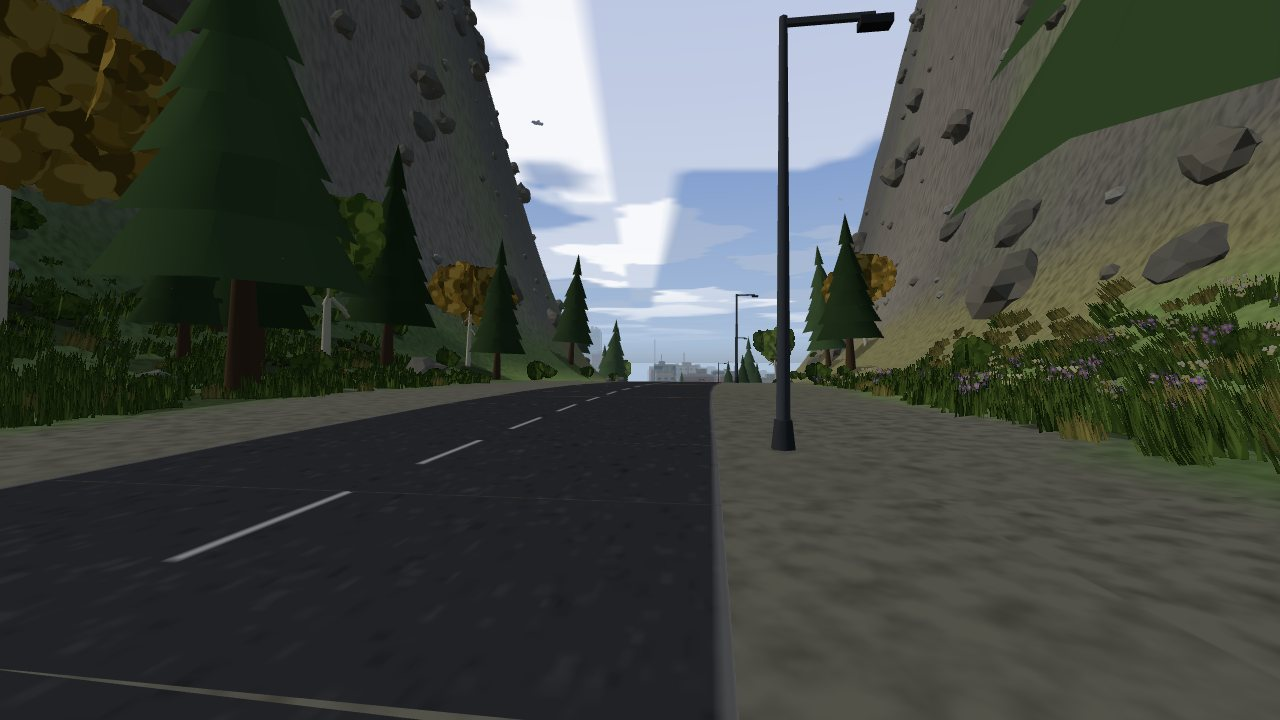
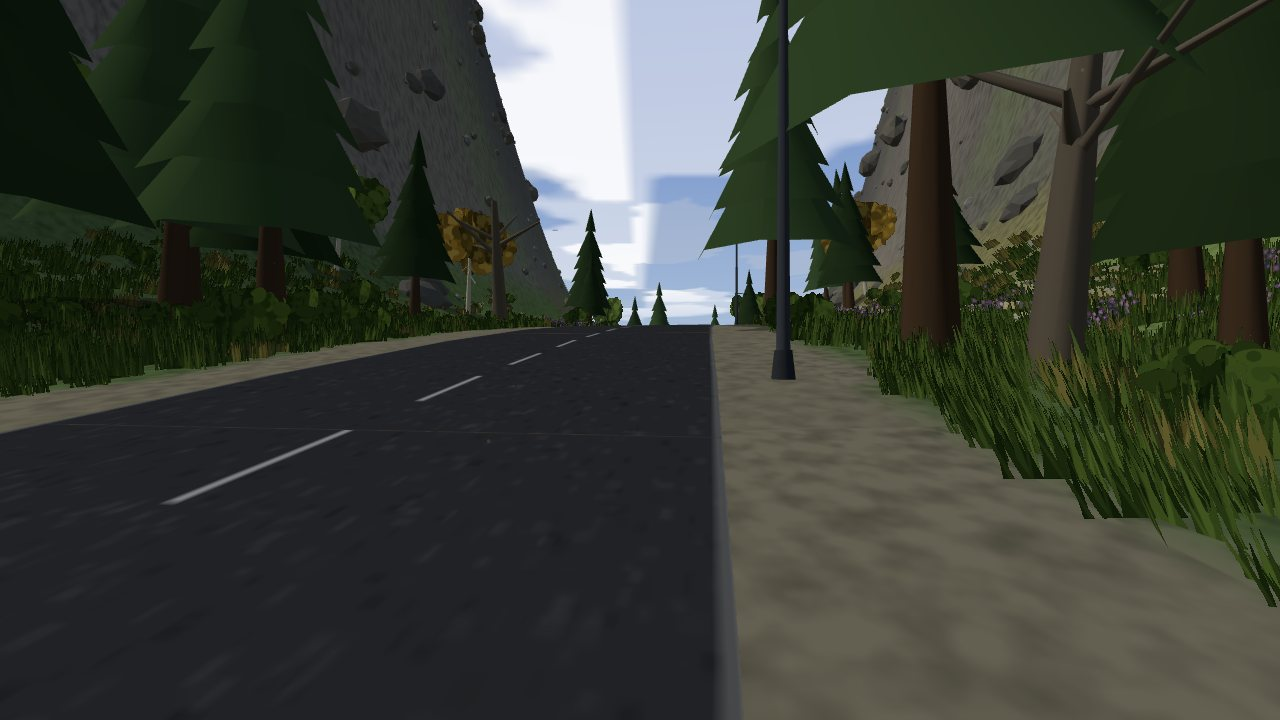
Keep the road off the valley floor and out of the verge
The highway was carving a wide grey shelf across the meadow beside the
spawn: its profile ignored the ground it crossed, and the zone that
suppresses vegetation reached four metres past the graded shelf on each
side, so the scar was 22 m wide against an 8.7 m carriageway.

- The profile now follows the natural ground across the valley floor and
  only starts cutting where it climbs the rim, which is where the cut is
  supposed to become the gorge. The spawn sits back at its original
  height, and the road passes 24 m away instead of 15.
- The vegetation-free zone is the flat shelf only, and it is coloured as
  a gravel verge rather than tarmac, so grass and trees come right up to
  the road edge.
- The road ribbon offsets each cross-section along the averaged tangent
  at its own path point; per-segment normals were leaving a wedge of bare
  ground showing on the outside of every bend.

Claude-Session: https://claude.ai/code/session_01RpQKF283wkhDE6dbE1XSdc

diff --git a/src/city.js b/src/city.js
@@ -476,31 +476,44 @@ function addWaterfront(B) {
   }
 }
 
-/** The road out of the valley, laid on the terrain it was graded into. */
+/**
+ * The road out of the valley, laid on the terrain it was graded into.
+ *
+ * Each cross-section is offset along the *averaged* tangent at its own path
+ * point rather than along the segment it starts. Per-segment normals leave a
+ * wedge of bare ground showing through on the outside of every bend.
+ */
 function addHighway(B) {
   const half = ROAD_SHELF * 0.62;
+  const rows = [];
   let arc = 0;
-  for (let i = 0; i < ROAD_PATH.length - 1; i++) {
-    const a = ROAD_PATH[i];
-    const b = ROAD_PATH[i + 1];
-    let tx = b[0] - a[0], tz = b[1] - a[1];
-    const len = Math.hypot(tx, tz) || 1;
-    tx /= len; tz /= len;
+
+  for (let i = 0; i < ROAD_PATH.length; i++) {
+    const p = ROAD_PATH[i];
+    const prev = ROAD_PATH[Math.max(0, i - 1)];
+    const next = ROAD_PATH[Math.min(ROAD_PATH.length - 1, i + 1)];
+    let tx = next[0] - prev[0];
+    let tz = next[1] - prev[1];
+    const t = Math.hypot(tx, tz) || 1;
+    tx /= t; tz /= t;
     const nx = -tz, nz = tx;
 
-    const corner = (p, side) => {
+    if (i > 0) arc += Math.hypot(p[0] - prev[0], p[1] - prev[1]);
+
+    const edge = (side) => {
       const x = p[0] + nx * half * side;
       const z = p[1] + nz * half * side;
       return [x, heightAt(x, z) + 0.04, z];
     };
-    const a0 = corner(a, -1), a1 = corner(a, 1);
-    const b0 = corner(b, -1), b1 = corner(b, 1);
-    const v0 = arc / 14;
-    const v1 = (arc + len) / 14;
-    arc += len;
+    rows.push({ left: edge(-1), right: edge(1), v: arc / 14 });
+  }
+
+  for (let i = 0; i < rows.length - 1; i++) {
+    const a = rows[i];
+    const b = rows[i + 1];
     B.quad([
-      ...a0, ...a1, ...b1, ...b0,
-    ], [0, v0, 1, v0, 1, v1, 0, v1], TILE.ROAD_STREET, ROAD_COLOR);
+      ...a.left, ...a.right, ...b.right, ...b.left,
+    ], [0, a.v, 1, a.v, 1, b.v, 0, b.v], TILE.ROAD_STREET, ROAD_COLOR);
   }
 }
 

diff --git a/src/citymap.js b/src/citymap.js
@@ -136,18 +136,21 @@ export function plainWeight(x, z) {
  * terrain is graded to meet them, which is what cuts the gorge through the rim.
  */
 const ROAD_CONTROL = [
-  [70, 132, 12.6],
-  [24, 186, 15.0],
-  [-58, 226, 18.5],
-  [-152, 258, 22.0],
-  [-248, 296, 26.5],
-  [-330, 344, 31.5],
-  [-386, 400, 37.0],
-  [-414, 452, 40.5],
-  [-424, 506, 41.5],
-  [-434, 562, 38.5],
-  [-436, 618, 31.0],
-  [-430, 668, 23.0],
+  // Across the valley floor the profile hugs the natural ground, so the road
+  // reads as a track laid on the meadow rather than a trench cut through it.
+  [96, 140, 11.8],
+  [30, 182, 22.0],
+  [-58, 226, 28.0],
+  [-152, 258, 20.0],
+  [-248, 296, 12.0],
+  [-330, 344, 9.0],
+  // From here it climbs the rim, and the cut becomes the gorge.
+  [-386, 400, 22.0],
+  [-414, 452, 33.0],
+  [-424, 506, 41.0],
+  [-434, 562, 41.5],
+  [-436, 618, 35.0],
+  [-430, 668, 25.0],
   [-422, 706, plainHeightAt(-422, 706)],
   [-416, 748, plainHeightAt(-416, 748)],
 ];
@@ -453,8 +456,9 @@ export function zoneAt(x, z) {
   }
 
   const hit = highwayAt(x, z);
-  // A little wider than the carriageway itself, so nothing grows in the verge.
-  if (hit && hit.dist < ROAD_SHELF + 4) _zone.kind = ZONE.HIGHWAY;
+  // The flat shelf only — grass and trees come right up to the gravel verge,
+  // which is what stops the road reading as a runway through the meadow.
+  if (hit && hit.dist < ROAD_SHELF) _zone.kind = ZONE.HIGHWAY;
   return _zone;
 }
 

diff --git a/src/world.js b/src/world.js
@@ -448,7 +448,7 @@ export function surfaceColor(x, z, h = heightAt(x, z), slope = slopeAt(x, z), m 
     const grade = zone === ZONE.PARK
       ? [0.19, 0.30, 0.10]
       : zone === ZONE.HIGHWAY
-        ? [0.20, 0.19, 0.17]
+        ? [0.30, 0.27, 0.21]
         : [0.24, 0.24, 0.23];
     const w = zone === ZONE.PARK ? 0.85 : 0.9;
     r = lerp(r, grade[0] * tint, w);
